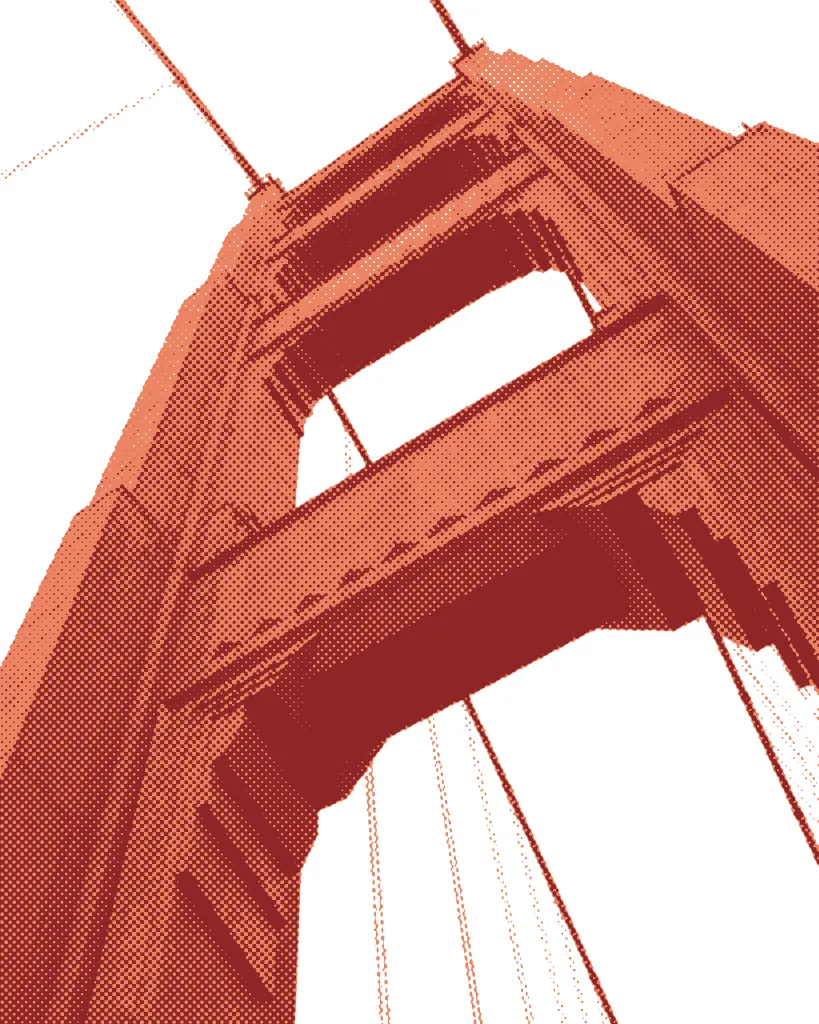
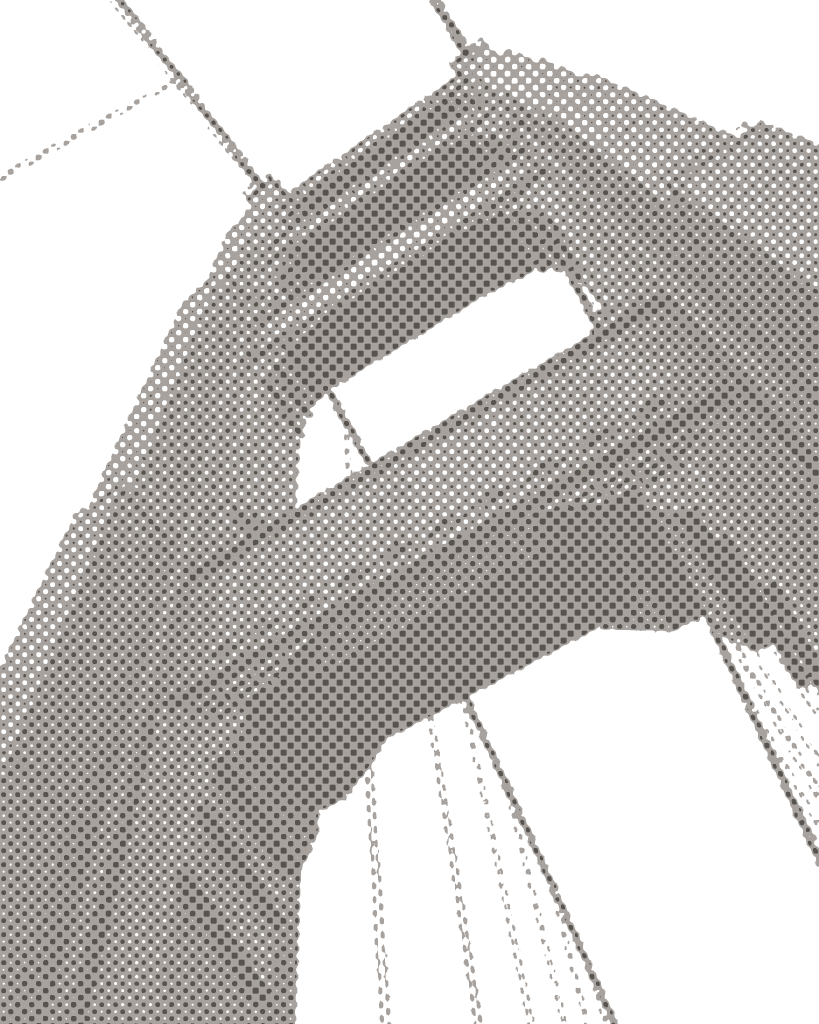
feat(hero): print floor, palettes and transparent paper in the screen filter
A dither only makes dots where tone falls BETWEEN rungs, so a large dark mass
sitting on rung 0 prints as a flat slab with no screen in it at all, which is
why the effect looked absent on a black jacket. floor and ceil squeeze the
range off both ends so that mass lands mid-rung and dithers.

Paper becomes alpha rather than white, so a plate composites onto the page
instead of sitting on it as a rectangle, and survives a background token change
or a dark mode. Averaging premultiplied and dividing the alpha back out keeps
the dot edges from picking up a white fringe.

Four-ink palettes join the three-ink ones: with one rung between the dark and
the body, a jacket steps through it instead of settling into a flat 50/50
checkerboard.

diff --git a/scripts/hero/franky_filter.py b/scripts/hero/franky_filter.py
@@ -46,10 +46,30 @@ from PIL import Image, ImageFilter
 # choice and the source photograph's colour is not consulted at all.
 PALETTES = {
     "coral":  ["#8d2526", "#ec8563", "#ffffff"],
+    # four inks: an extra rung between the dark and the body, so a large dark
+    # mass steps through it instead of sitting on one rung as a flat 50/50
+    # checkerboard. Worth it on a subject with more shadow than the reference's.
+    "coral4": ["#6d1a1e", "#b8453a", "#f0a07e", "#ffffff"],
+    "coral4p":["#6d1a1e", "#b8453a", "#f0a07e", "#faf9f7"],   # paper = page --bg
     "ink":    ["#141414", "#8a8a8a", "#ffffff"],
+    # the site's own neutral ramp, straight off styles.module.css: --fg,
+    # --muted, --faint, paper. Four rungs like coral4, so a large dark mass
+    # steps through them instead of sitting on one.
+    "ink4":   ["#1c1917", "#57534e", "#a8a29e", "#ffffff"],
+    # same inks, paper set to the page's own --bg instead of white, for when an
+    # opaque plate is wanted and it must not read as a rectangle on the page
+    "ink4p":  ["#1c1917", "#57534e", "#a8a29e", "#faf9f7"],
     "blue":   ["#12294d", "#5b8ec9", "#ffffff"],
     "forest": ["#12301f", "#5d9068", "#ffffff"],
     "plum":   ["#3a1030", "#a85f8e", "#fdf7fb"],
+    # pure two-tone: no midtone rung at all, so every mid value has to dither
+    "bw2":    ["#141414", "#ffffff"],
+    "bw3":    ["#141414", "#8a8a8a", "#ffffff"],
+    # inverted: the LIGHT end is the accent, so the ground prints coral and the
+    # subject prints white. Use these opaque, since here the paper is the ink.
+    "coral2":   ["#f5482d", "#ffffff"],   # coral subject on paper
+    "onwhite2": ["#ffffff", "#f5482d"],   # white subject on a coral ground
+    "onwhite3": ["#ffffff", "#ffb9a3", "#f5482d"],
 }
 
 PITCH, AMP, SS = 5.0, 1.0, 3
@@ -57,6 +77,14 @@ SMOOTH, GRAIN = 1, 0.6           # median radius, then a whisker of gaussian
 BLACK_PCT, WHITE_PCT = 1.0, 96.0
 CONTRAST, GAMMA = 1.15, 0.95
 PAPER = 0.995                    # at or above this the normalised tone is bare paper
+# Print floor and ceiling. An ordered dither only makes dots where tone sits
+# BETWEEN rungs: a value sitting exactly on one prints solid. A photograph with
+# a large dark mass -- a black jacket, say -- pins that mass to rung 0 and comes
+# out as a flat slab with no screen in it at all, which reads as "the effect
+# isn't working". Squeezing the range off both ends puts that mass between rungs
+# so it dithers. The reference does this: 348 flat dark pixels against ~78k dark
+# ones, so its shadows are all screen and never slab.
+FLOOR, CEIL = 0.14, 0.94
 
 
 def _hex(c):
@@ -65,7 +93,8 @@ def _hex(c):
 
 
 def prepare(a, smooth=SMOOTH, grain=GRAIN, black_pct=BLACK_PCT,
-            white_pct=WHITE_PCT, contrast=CONTRAST, gamma=GAMMA):
+            white_pct=WHITE_PCT, contrast=CONTRAST, gamma=GAMMA,
+            floor=FLOOR, ceil=CEIL, paper=PAPER):
     """Photograph -> clean tone in 0..1. Colour is discarded here, on purpose.
 
     The median is the important one. A gaussian blurs a surface and its edge
@@ -87,6 +116,11 @@ def prepare(a, smooth=SMOOTH, grain=GRAIN, black_pct=BLACK_PCT,
     lo, hi = np.percentile(t, [black_pct, white_pct])
     t = np.clip((t - lo) / max(hi - lo, 1e-3), 0, 1)
     t = np.clip(0.5 + (t - 0.5) * contrast, 0, 1) ** gamma
+
+    # bare paper is decided before the squeeze, or the sky could never reach it
+    bare = t >= paper
+    t = floor + (ceil - floor) * t
+    t[bare] = 1.0
     return t
 
 
@@ -109,22 +143,45 @@ def dither(t, pitch=PITCH, levels=3, amp=AMP, ss=SS, paper=PAPER):
     return k.astype(np.int8), ss
 
 
-def paint(k, ss, palette):
+def paint(k, ss, palette, transparent=False):
+    """Rung index -> ink. With transparent=True the paper rung becomes alpha.
+
+    A plate with opaque white paper sits on the page as a visible rectangle,
+    because the page is #faf9f7 and the plate is #ffffff. Dropping the paper to
+    alpha instead lets the same file sit on any background, and the dots keep
+    soft edges because the supersample average gives them partial alpha.
+    """
     inks = np.stack([_hex(c) for c in palette])
     big = inks[k]
     H, W = big.shape[0] // ss, big.shape[1] // ss
-    return big.reshape(H, ss, W, ss, 3).mean(axis=(1, 3))
+    if not transparent:
+        return big.reshape(H, ss, W, ss, 3).mean(axis=(1, 3)), None
+
+    ink_on = (k < len(palette) - 1).astype(np.float32)
+    # average premultiplied, then divide out, or the paper colour bleeds into
+    # every dot edge and the plate comes back washed
+    pre = (big * ink_on[..., None]).reshape(H, ss, W, ss, 3).mean(axis=(1, 3))
+    a = ink_on.reshape(H, ss, W, ss).mean(axis=(1, 3))
+    rgb = pre / np.maximum(a, 1e-4)[..., None]
+    return np.clip(rgb, 0, 1), a
 
 
 def franky(src, out, pitch=PITCH, palette="coral", amp=AMP, ss=SS,
-           smooth=SMOOTH, contrast=CONTRAST, gamma=GAMMA, quality=80):
+           smooth=SMOOTH, contrast=CONTRAST, gamma=GAMMA,
+           floor=FLOOR, ceil=CEIL, transparent=False, quality=80):
     inks = PALETTES[palette] if isinstance(palette, str) else palette
     a = np.asarray(Image.open(src).convert("RGB")).astype(np.float32) / 255
-    t = prepare(a, smooth=smooth, contrast=contrast, gamma=gamma)
+    t = prepare(a, smooth=smooth, contrast=contrast, gamma=gamma,
+                floor=floor, ceil=ceil)
     k, s = dither(t, pitch=pitch, levels=len(inks), amp=amp, ss=ss)
-    x = paint(k, s, inks)
-    im = Image.fromarray((np.clip(x, 0, 1) * 255).astype(np.uint8))
-    im.save(out, quality=quality) if str(out).endswith(".webp") else im.save(out)
+    x, alpha = paint(k, s, inks, transparent=transparent)
+    arr = (np.clip(x, 0, 1) * 255).astype(np.uint8)
+    if alpha is None:
+        im = Image.fromarray(arr)
+    else:
+        im = Image.fromarray(np.dstack([arr, (alpha * 255).astype(np.uint8)]), "RGBA")
+    im.save(out, quality=quality, lossless=bool(alpha is not None)) \
+        if str(out).endswith(".webp") else im.save(out)
     return out
 
 
@@ -136,4 +193,6 @@ if __name__ == "__main__":
            smooth=int(kw.get("smooth", SMOOTH)),
            contrast=float(kw.get("contrast", CONTRAST)),
            gamma=float(kw.get("gamma", GAMMA)),
+           floor=float(kw.get("floor", FLOOR)), ceil=float(kw.get("ceil", CEIL)),
+           transparent=kw.get("transparent", "0") == "1",
            quality=int(kw.get("quality", 80)))
